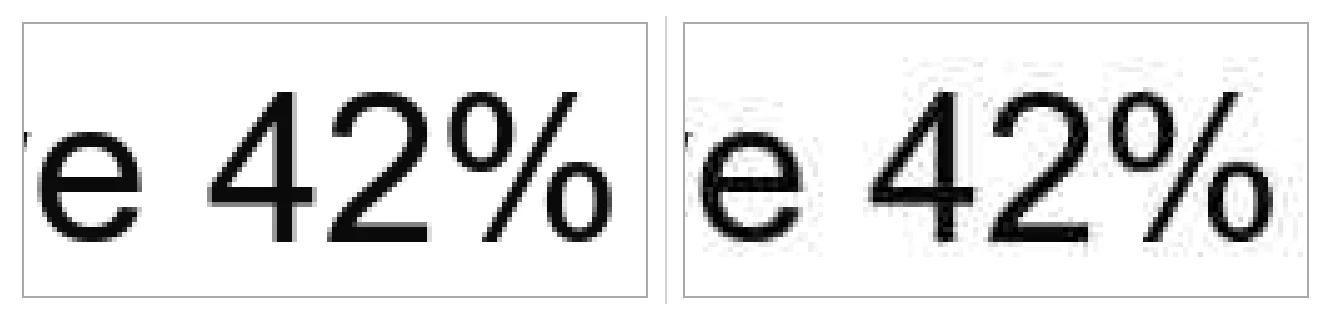
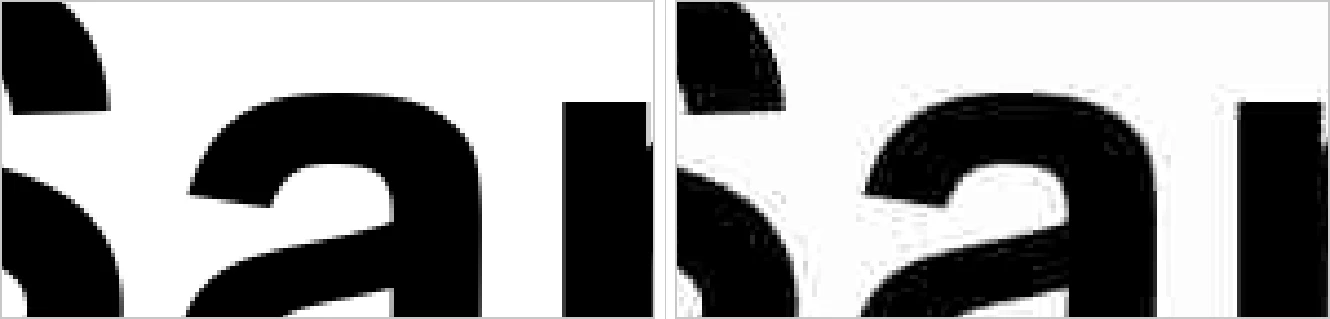
Fix broken png-vs-jpg comparison image (featured card + post)
The PNG-vs-JPG magnified crop-comparison image was wrong content,
not corrupted or a rendering/cropping bug: the committed .webp
(from Phase 9.4 batch 1, commit 2e7dc9f, 2026-08-24) showed two
near-identical crops both reading "e 42%" instead of a PNG-vs-JPG
comparison — broken since the day it was first created, not a
regression, and shared identically by both the original png-vs-jpg
post and the featured card that started reusing it a day later
(commit f97b152). Confirmed both places were affected before fixing.

Regenerated a real crisp-vs-artifacted magnified crop (Pillow
12.3.0, Arial Bold "Sample Text" test graphic, PNG vs JPG quality
20) at the exact same 1330x319 dimensions so no HTML attributes
needed to change. Since the accompanying bar chart's KB figures were
measured from the now-replaced source graphic, re-measured the new
one honestly (PNG 18KB / clean JPG q85 27KB / degraded JPG q20 17KB)
and updated the SVG chart geometry, labels, and figcaption text
(EN+ES) to match — leaving stale numbers next to a different image
would have been its own inaccuracy.

Verified via Playwright: both /blog and /es/blog featured cards,
and the post's own figure, both themes, 0 console errors.

diff --git a/es/blog/png-vs-jpg/index.html b/es/blog/png-vs-jpg/index.html
@@ -185,20 +185,20 @@ h1{font-size:38px;line-height:1.25;margin:0 0 18px 0;text-align:left;}
   <figcaption>Un recorte ampliado del mismo gráfico de texto — PNG a la izquierda, JPG guardado con una calidad baja a la derecha. PNG mantiene cada borde nítido; la versión JPG muestra difuminado visible y artefactos de bloque alrededor de las letras — exactamente el efecto "ligeramente borroso" que describe la tabla anterior.</figcaption>
 </figure>
 <figure class="theme-figure">
-<svg viewBox="0 0 700 340" width="700" height="340" role="img" aria-label="Gráfico de barras: para este gráfico de texto, el PNG (20 KB) pesa casi lo mismo que un JPG visualmente limpio (22 KB); solo un JPG visiblemente degradado (13 KB) es más pequeño" xmlns="http://www.w3.org/2000/svg">
-<title>Gráfico de barras: para este gráfico de texto, el PNG (20 KB) pesa casi lo mismo que un JPG visualmente limpio (22 KB); solo un JPG visiblemente degradado (13 KB) es más pequeño</title>
+<svg viewBox="0 0 700 340" width="700" height="340" role="img" aria-label="Gráfico de barras: para este gráfico de texto, el PNG (18 KB) pesa menos que un JPG visualmente limpio (27 KB); solo un JPG visiblemente degradado (17 KB) se acerca al tamaño del PNG" xmlns="http://www.w3.org/2000/svg">
+<title>Gráfico de barras: para este gráfico de texto, el PNG (18 KB) pesa menos que un JPG visualmente limpio (27 KB); solo un JPG visiblemente degradado (17 KB) se acerca al tamaño del PNG</title>
 <line x1="60" y1="280" x2="640" y2="280" stroke="var(--border)" stroke-width="1"></line>
-<rect x="60.0" y="107.3" width="106.3" height="172.7" rx="4" fill="var(--muted-text)"></rect>
-<text x="113.2" y="93.3" text-anchor="middle" font-size="18" font-weight="bold" fill="var(--text)">20 KB</text>
+<rect x="60.0" y="124.6" width="106.3" height="155.4" rx="4" fill="var(--muted-text)"></rect>
+<text x="113.2" y="110.6" text-anchor="middle" font-size="18" font-weight="bold" fill="var(--text)">18 KB</text>
 <text x="113.2" y="304.0" text-anchor="middle" font-size="15" fill="var(--muted-text)">PNG</text>
-<rect x="296.8" y="90.0" width="106.3" height="190.0" rx="4" fill="var(--muted-text)"></rect>
-<text x="350.0" y="76.0" text-anchor="middle" font-size="18" font-weight="bold" fill="var(--text)">22 KB</text>
+<rect x="296.8" y="46.8" width="106.3" height="233.2" rx="4" fill="var(--muted-text)"></rect>
+<text x="350.0" y="32.8" text-anchor="middle" font-size="18" font-weight="bold" fill="var(--text)">27 KB</text>
 <text x="350.0" y="304.0" text-anchor="middle" font-size="15" fill="var(--muted-text)">JPG (limpio)</text>
-<rect x="533.7" y="167.7" width="106.3" height="112.3" rx="4" fill="var(--accent)"></rect>
-<text x="586.8" y="153.7" text-anchor="middle" font-size="18" font-weight="bold" fill="var(--text)">13 KB</text>
+<rect x="533.7" y="133.2" width="106.3" height="146.8" rx="4" fill="var(--accent)"></rect>
+<text x="586.8" y="119.2" text-anchor="middle" font-size="18" font-weight="bold" fill="var(--text)">17 KB</text>
 <text x="586.8" y="304.0" text-anchor="middle" font-size="15" fill="var(--muted-text)">JPG (degradado)</text>
 </svg>
-<figcaption>Medido sobre el gráfico de texto de arriba (Pillow 12.3.0): un JPG visualmente limpio (calidad 85) es en realidad un poco más grande que el PNG — para este tipo de contenido de colores planos y bordes definidos, el JPG solo se vuelve más pequeño al bajar la calidad lo suficiente como para ver los artefactos de arriba (calidad 35). Trátalo como este ejemplo concreto, no como una garantía universal.</figcaption>
+<figcaption>Medido sobre el gráfico de texto de arriba (Pillow 12.3.0): un JPG visualmente limpio (calidad 85) es en realidad más grande que el PNG — para este tipo de contenido de colores planos y bordes definidos, el JPG solo se vuelve más pequeño al bajar la calidad lo suficiente como para ver los artefactos de arriba (calidad 20). Trátalo como este ejemplo concreto, no como una garantía universal.</figcaption>
 </figure>
 
 <h2>¿Por qué mi computadora usa PNG por defecto para las capturas de pantalla?</h2>

diff --git a/blog/png-vs-jpg/index.html b/blog/png-vs-jpg/index.html
@@ -185,20 +185,20 @@ h1{font-size:38px;line-height:1.25;margin:0 0 18px 0;text-align:left;}
   <figcaption>A magnified crop of the same text graphic — PNG on the left, JPG saved at a low quality setting on the right. PNG keeps every edge crisp; the JPG version shows visible blur and blocky artifacts around the letters — exactly the "slightly fuzzy" effect the table above describes.</figcaption>
 </figure>
 <figure class="theme-figure">
-<svg viewBox="0 0 700 340" width="700" height="340" role="img" aria-label="Bar chart: for this text graphic, PNG (20 KB) is about the same size as a visually clean JPG (22 KB); only a visibly degraded JPG (13 KB) is smaller" xmlns="http://www.w3.org/2000/svg">
-<title>Bar chart: for this text graphic, PNG (20 KB) is about the same size as a visually clean JPG (22 KB); only a visibly degraded JPG (13 KB) is smaller</title>
+<svg viewBox="0 0 700 340" width="700" height="340" role="img" aria-label="Bar chart: for this text graphic, PNG (18 KB) is smaller than a visually clean JPG (27 KB); only a visibly degraded JPG (17 KB) gets close to PNG's size" xmlns="http://www.w3.org/2000/svg">
+<title>Bar chart: for this text graphic, PNG (18 KB) is smaller than a visually clean JPG (27 KB); only a visibly degraded JPG (17 KB) gets close to PNG's size</title>
 <line x1="60" y1="280" x2="640" y2="280" stroke="var(--border)" stroke-width="1"></line>
-<rect x="60.0" y="107.3" width="106.3" height="172.7" rx="4" fill="var(--muted-text)"></rect>
-<text x="113.2" y="93.3" text-anchor="middle" font-size="18" font-weight="bold" fill="var(--text)">20 KB</text>
+<rect x="60.0" y="124.6" width="106.3" height="155.4" rx="4" fill="var(--muted-text)"></rect>
+<text x="113.2" y="110.6" text-anchor="middle" font-size="18" font-weight="bold" fill="var(--text)">18 KB</text>
 <text x="113.2" y="304.0" text-anchor="middle" font-size="15" fill="var(--muted-text)">PNG</text>
-<rect x="296.8" y="90.0" width="106.3" height="190.0" rx="4" fill="var(--muted-text)"></rect>
-<text x="350.0" y="76.0" text-anchor="middle" font-size="18" font-weight="bold" fill="var(--text)">22 KB</text>
+<rect x="296.8" y="46.8" width="106.3" height="233.2" rx="4" fill="var(--muted-text)"></rect>
+<text x="350.0" y="32.8" text-anchor="middle" font-size="18" font-weight="bold" fill="var(--text)">27 KB</text>
 <text x="350.0" y="304.0" text-anchor="middle" font-size="15" fill="var(--muted-text)">JPG (clean)</text>
-<rect x="533.7" y="167.7" width="106.3" height="112.3" rx="4" fill="var(--accent)"></rect>
-<text x="586.8" y="153.7" text-anchor="middle" font-size="18" font-weight="bold" fill="var(--text)">13 KB</text>
+<rect x="533.7" y="133.2" width="106.3" height="146.8" rx="4" fill="var(--accent)"></rect>
+<text x="586.8" y="119.2" text-anchor="middle" font-size="18" font-weight="bold" fill="var(--text)">17 KB</text>
 <text x="586.8" y="304.0" text-anchor="middle" font-size="15" fill="var(--muted-text)">JPG (degraded)</text>
 </svg>
-<figcaption>Measured on the text graphic above (Pillow 12.3.0): a visually clean JPG (quality 85) is actually slightly larger than the PNG — for this kind of flat-color, sharp-edged content, JPG only gets smaller once you drop quality enough to see the artifacts above (quality 35). Treat as this example, not a universal guarantee.</figcaption>
+<figcaption>Measured on the text graphic above (Pillow 12.3.0): a visually clean JPG (quality 85) is actually larger than the PNG — for this kind of flat-color, sharp-edged content, JPG only gets smaller once you drop quality enough to see the artifacts above (quality 20). Treat as this example, not a universal guarantee.</figcaption>
 </figure>
 
 <h2>Why does my computer default to PNG for screenshots?</h2>
